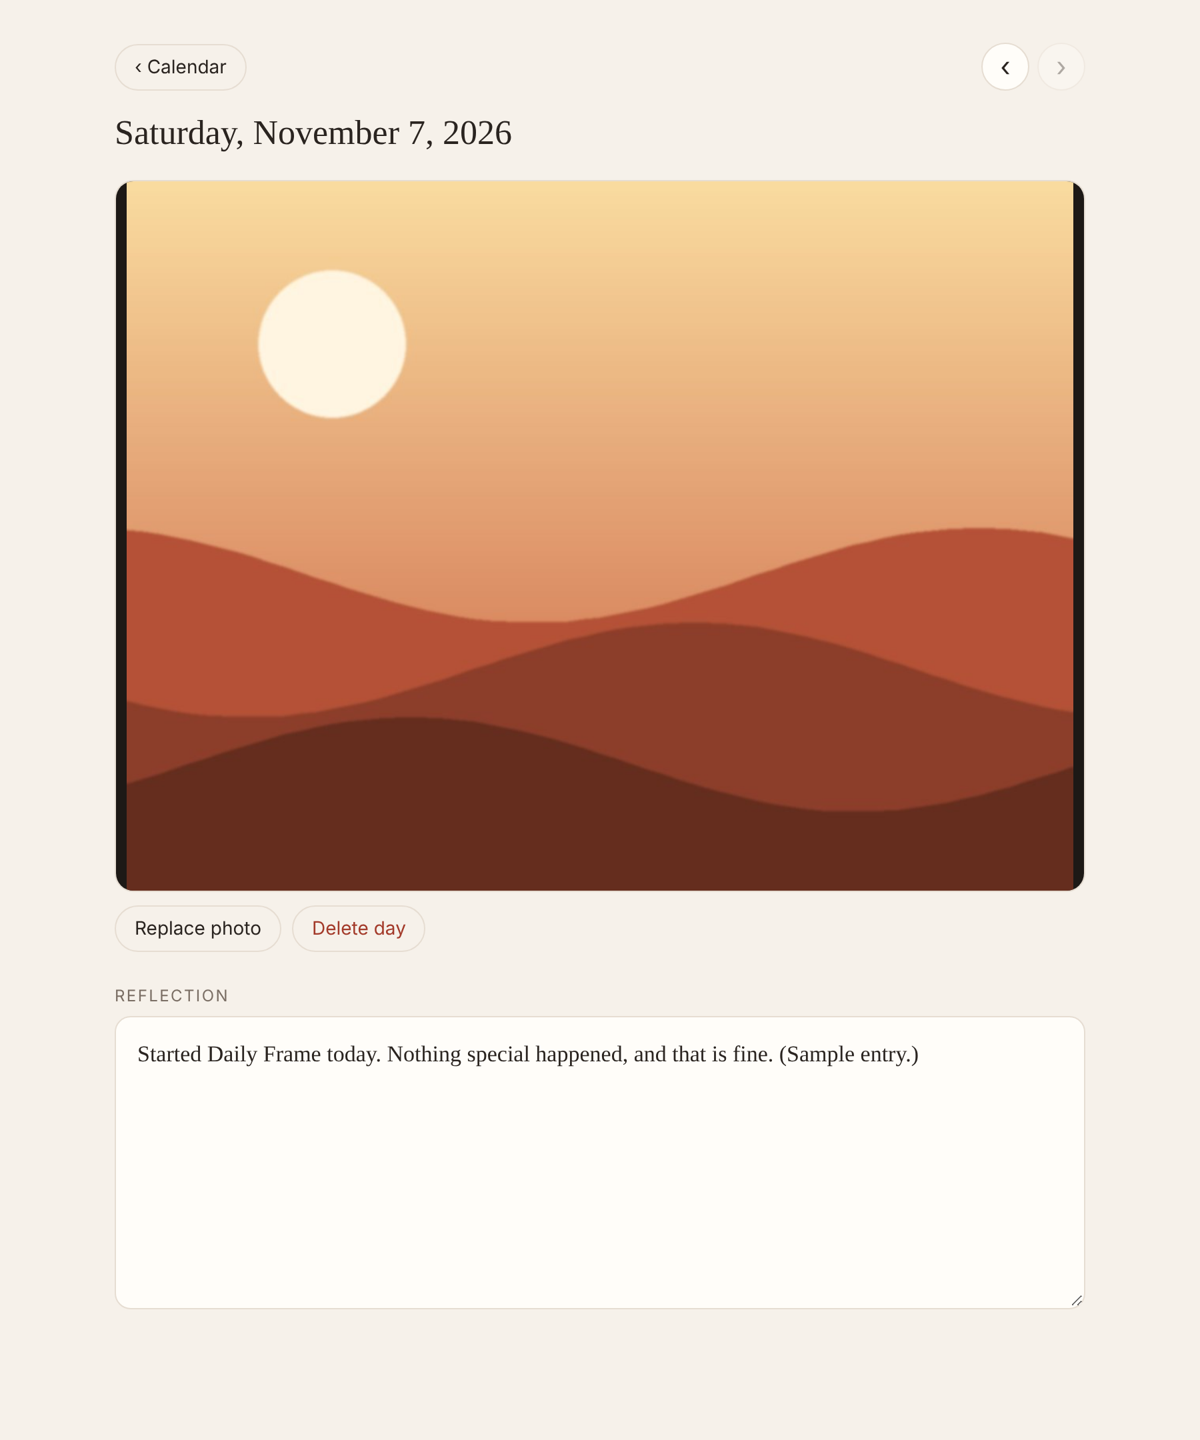
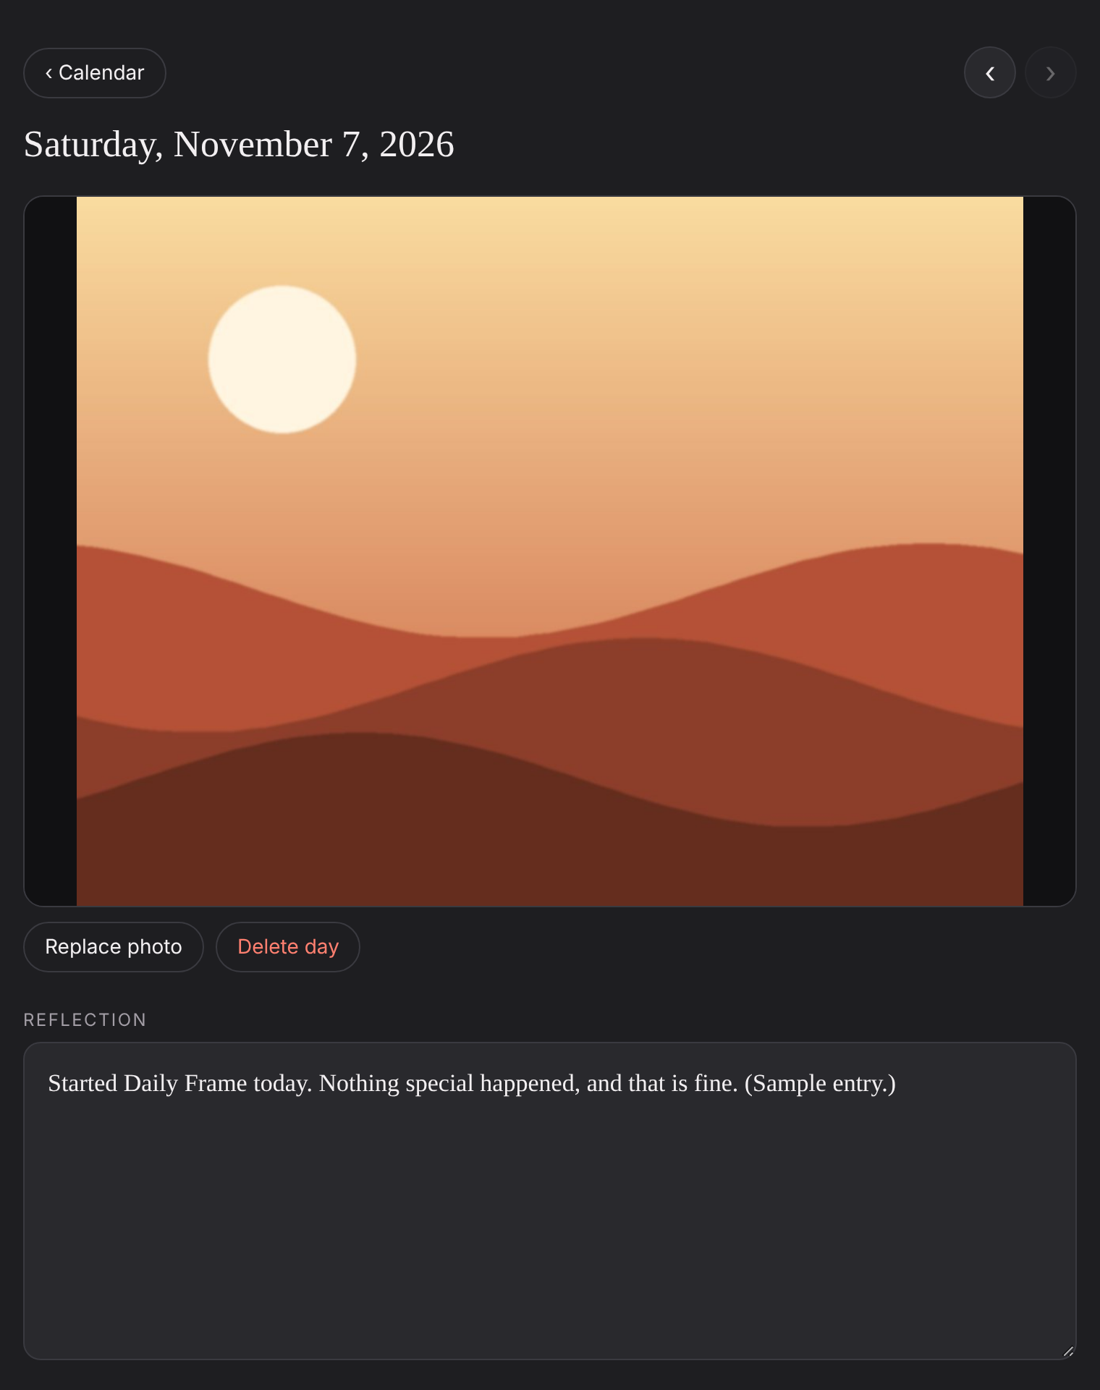
Product Page: match new app look, new screenshots, PRD note on physical journaling

diff --git a/docs/index.html b/docs/index.html
@@ -10,15 +10,38 @@ Build 2: paste your project's current PostHog web snippet here,
 then install analytics in the local app and verify events. -->
 
 <style>
+/* Matches the Daily Frame app: creme light mode, dark grey dark mode,
+   palette https://coolors.co/ff499e-d264b6-a480cf-779be7-49b6ff */
 :root {
---bg: #fafafa;
---card: #ffffff;
---text: #111827;
---muted: #4b5563;
---border: #e5e7eb;
---accent: #b5603c;
---tag-bg: #f8ece5;
---tag-text: #8a3f22;
+--pink: #FF499E;
+--orchid: #D264B6;
+--lavender: #A480CF;
+--blue: #779BE7;
+--sky: #49B6FF;
+--rainbow: linear-gradient(90deg, var(--pink), var(--orchid), var(--lavender), var(--blue), var(--sky));
+--bg: #f8f2e7;
+--card: #fffbf4;
+--text: #2b2622;
+--muted: #7b7166;
+--border: #e9dfcf;
+--accent: var(--pink);
+--tag-bg: #f0e7d8;
+--code-bg: #f0e7d8;
+--btn-text: #fff;
+color-scheme: light;
+}
+@media (prefers-color-scheme: dark) {
+:root {
+--bg: #1e1e21;
+--card: #29292d;
+--text: #f2eff1;
+--muted: #a39ea6;
+--border: #3a3a40;
+--tag-bg: #2b2b30;
+--code-bg: #34343a;
+--btn-text: #1e1e21;
+color-scheme: dark;
+}
 }
 * { box-sizing: border-box; }
 body {
@@ -34,27 +57,48 @@ margin: 0 auto;
 padding: 48px 24px 80px;
 }
 header {
-border-bottom: 1px solid var(--border);
 padding-bottom: 28px;
-margin-bottom: 32px;
 }
 .eyebrow {
 display: inline-block;
 font-size: 12px;
-font-weight: 600;
+font-weight: 700;
 text-transform: uppercase;
-letter-spacing: 0.06em;
+letter-spacing: 0.1em;
 background: var(--tag-bg);
-color: var(--tag-text);
+color: var(--muted);
 padding: 4px 10px;
 border-radius: 999px;
-margin-bottom: 12px;
+margin-bottom: 14px;
+}
+.brand {
+display: block;
+font-size: 13px;
+font-weight: 700;
+letter-spacing: 0.14em;
+text-transform: uppercase;
+background: var(--rainbow);
+-webkit-background-clip: text;
+background-clip: text;
+color: transparent;
+width: fit-content;
+margin-bottom: 4px;
+}
+h1, h2 {
+font-family: Georgia, "Times New Roman", serif;
+font-weight: 400;
 }
 h1 {
-font-size: 36px;
-line-height: 1.15;
+font-size: 44px;
+line-height: 1.1;
 margin: 0 0 12px;
-letter-spacing: -0.02em;
+letter-spacing: -0.01em;
+}
+.rainbow-bar {
+height: 4px;
+border-radius: 999px;
+background: var(--rainbow);
+margin-bottom: 28px;
 }
 .tagline {
 font-size: 19px;
@@ -74,7 +118,8 @@ font-weight: 600;
 font-size: 15px;
 text-decoration: none;
 background: var(--accent);
-color: #fff;
+color: var(--btn-text);
+font-weight: 700;
 }
 .btn-secondary {
 background: var(--card);
@@ -89,18 +134,19 @@ padding: 24px 28px;
 margin-bottom: 24px;
 }
 h2 {
-font-size: 20px;
+font-size: 26px;
 margin: 0 0 14px;
-letter-spacing: -0.01em;
 }
 h3 {
 font-size: 16px;
-margin: 18px 0 6px;
+margin: 20px 0 6px;
 }
 p, ul {
 margin: 0 0 12px;
-color: #1f2937;
+color: var(--text);
 }
+a { color: var(--accent); }
+li::marker { color: var(--accent); }
 .grid-2 {
 display: grid;
 grid-template-columns: repeat(auto-fit, minmax(240px, 1fr));
@@ -151,7 +197,19 @@ border-radius: 10px;
 display: block;
 }
 .shots figcaption { font-size: 13px; color: var(--muted); margin-top: 6px; }
-code { background: #f3f4f6; padding: 1px 6px; border-radius: 4px; font-size: 14px; }
+code { background: var(--code-bg); padding: 1px 6px; border-radius: 4px; font-size: 14px; }
+.stat-box:nth-child(1) { border-top: 3px solid var(--pink); }
+.stat-box:nth-child(2) { border-top: 3px solid var(--lavender); }
+.stat-box:nth-child(3) { border-top: 3px solid var(--blue); }
+.stat-box:nth-child(4) { border-top: 3px solid var(--sky); }
+.shot-col { display: grid; gap: 16px; align-content: start; }
+.shot-wide { margin: 16px 0 8px; }
+.shot-wide img { width: 100%; border: 1px solid var(--border); border-radius: 10px; display: block; }
+.shot-wide figcaption { font-size: 13px; color: var(--muted); margin-top: 6px; }
+@media (max-width: 480px) {
+h1 { font-size: 34px; }
+section { padding: 20px 18px; }
+}
 </style>
 </head>
 <body>
@@ -159,7 +217,8 @@ code { background: #f3f4f6; padding: 1px 6px; border-radius: 4px; font-size: 14p
 <!-- HERO / PRODUCT PITCH -->
 <header>
 <span class="eyebrow">NYU Stern · Building with AI · Fall 2026</span>
-<h1>Daily Frame</h1>
+<span class="brand">Daily Frame</span>
+<h1>One photo. One honest reflection. Just for you.</h1>
 <p class="tagline">For anyone tired of performing their life on social media: take one photo a day, write one honest reflection, and keep it just for yourself.</p>
 <p class="meta">Builder: Michelle (@mt6254)</p>
 <div class="cta-row">
@@ -168,6 +227,7 @@ code { background: #f3f4f6; padding: 1px 6px; border-radius: 4px; font-size: 14p
 <a class="btn btn-secondary" href="#build-log">Weekly Build Log</a>
 </div>
 </header>
+<div class="rainbow-bar"></div>
 
 <!-- DEMO / SCREENSHOT / VIDEO SHOWCASE -->
 <section id="live-demo">
@@ -177,13 +237,19 @@ code { background: #f3f4f6; padding: 1px 6px; border-radius: 4px; font-size: 14p
 <strong>Demo:</strong> Screenshots of the prototype running locally below. Cloud app URL comes in Build 5.
 </p>
 <div class="shots">
+<div class="shot-col">
 <figure>
-<img src="calendar.png" alt="Daily Frame calendar view showing a month with a photo thumbnail on each day that has an entry" />
-<figcaption>Calendar: one photo per day. A dot means there is a written reflection.</figcaption>
+<img src="calendar.png" alt="Daily Frame calendar in light creme mode with a pink accent, showing a photo thumbnail on each day that has an entry" />
+<figcaption>Calendar (light mode, pink accent): one photo per day. A dot means there is a written reflection.</figcaption>
 </figure>
 <figure>
-<img src="day.png" alt="Daily Frame day view showing the full photo with a reflection text box underneath" />
-<figcaption>Day view: the full photo and the reflection, saved automatically.</figcaption>
+<img src="themes.png" alt="Daily Frame theme picker in dark mode with Light, Dark and Auto modes and six accent swatches" />
+<figcaption>Theme picker: light, dark or auto mode, plus five accent colors or "all five", where each day gets its own color.</figcaption>
+</figure>
+</div>
+<figure>
+<img src="day.png" alt="Daily Frame day view in dark mode showing the full photo with a reflection text box underneath" />
+<figcaption>Day view (dark mode): the full photo and the reflection, saved automatically.</figcaption>
 </figure>
 </div>
 <p class="meta">Screenshots use placeholder images and sample entries. To run it yourself: clone the repo, then <code>cd app</code> and <code>python3 -m http.server 8000</code>, and open <code>http://localhost:8000</code>.</p>
@@ -196,8 +262,8 @@ code { background: #f3f4f6; padding: 1px 6px; border-radius: 4px; font-size: 14p
 
 <h3>1. Target User & The Job to Be Done</h3>
 <p><strong>Who is this for?</strong> Me first, then classmates in my program who already use Instagram but feel pressure to post a "perfect" photo and caption. I can reach both every week.</p>
-<p><strong>The painful "Before" workflow:</strong> I take photos all day and they sink into a camera roll of thousands of images. The few I share go through a loop of choosing the best shot, editing it, rewriting the caption, posting, and then checking for likes. The photo ends up being for an audience, and I almost never write down how the day actually felt. When I want to look back at a month, there is no single place that shows it.</p>
-<p><strong>The "After" workflow with this product:</strong> Once a day I open Daily Frame, tap today, add any photo (it does not need to be good), and write a few honest lines. It saves automatically and takes about a minute. The month view becomes a private visual diary I can scroll back through, with no likes, followers, or comments.</p>
+<p><strong>The painful "Before" workflow:</strong> I take photos all day and they sink into a camera roll of thousands of images. The few I share go through a loop of choosing the best shot, editing it, rewriting the caption, posting, and then checking for likes. The photo ends up being for an audience, and I almost never write down how the day actually felt. A physical journal would fix that, but it just is not possible some days: I do not always have a notebook with me, I am on the go between classes, and getting a photo onto paper takes printing and gluing. When I want to look back at a month, there is no single place that shows it.</p>
+<p><strong>The "After" workflow with this product:</strong> Once a day I open Daily Frame, tap today, add any photo (it does not need to be good), and write a few honest lines. It saves automatically and takes about a minute. Because it is digital, I can do it anywhere (on the train, between classes, in bed) with a photo I already took on my phone, which makes it a journal I can actually keep up with. The month view becomes a private visual diary I can scroll back through, with no likes, followers, or comments.</p>
 
 <h3>2. Scope & Explicit Non-Goals</h3>
 <ul>
@@ -240,7 +306,7 @@ code { background: #f3f4f6; padding: 1px 6px; border-radius: 4px; font-size: 14p
 <div class="log-entry">
 <h3>Build 1 · Intent.md & Throwaway Prototype (Due Nov 9)</h3>
 <ul>
-<li><strong>What shipped:</strong> A rough local web app in <code>app/</code>. Month calendar with a thumbnail on each day that has a photo, a day view to add or replace a photo and write a reflection, autosave, day-to-day navigation, and delete. Future days are locked. Photos are resized to 1600px and saved in the browser (IndexedDB), so nothing leaves the device. Screenshots are above.</li>
+<li><strong>What shipped:</strong> A rough local web app in <code>app/</code>. Month calendar with a thumbnail on each day that has a photo, a day view to add or replace a photo and write a reflection, autosave, day-to-day navigation, and delete. Future days are locked. Accepts JPG, PNG, HEIC (iPhone), WebP, AVIF, GIF and BMP, with drag and drop. Light (creme) and dark (grey) modes with five accent colors. Photos are resized to 1600px and saved in the browser (IndexedDB), so nothing leaves the device. Screenshots are above.</li>
 <li><strong>Things learned with AI:</strong> Used an AI agent to turn my idea into a PRD and a working prototype in one sitting. Learned that a browser can store photos locally with IndexedDB without any server or account, and that phone photos are large (several MB), so resizing before saving matters. Terminus Episodes 1 and 2: notes to add.</li>
 <li><strong>What broke / changed in PRD:</strong> My iPhone photos (HEIC) would not upload, because Chrome cannot open HEIC by itself. Fixed by adding a small in-browser HEIC converter, and the app now also takes PNG, WebP, AVIF, GIF and BMP, plus drag and drop. Added light (creme) and dark (grey) modes with five accent colors so the app feels like mine. Because data lives in one browser, entries do not sync between my phone and laptop yet. No PRD scope changes; this is v1.</li>
 <li><strong>Cost & time this week:</strong> $0.00 · ~1 hour</li>
